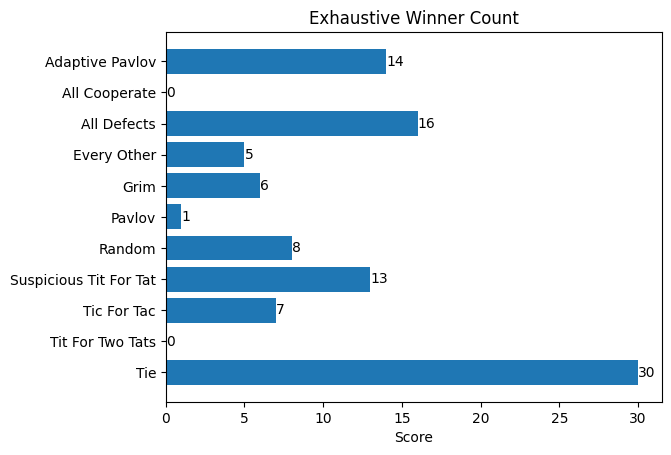
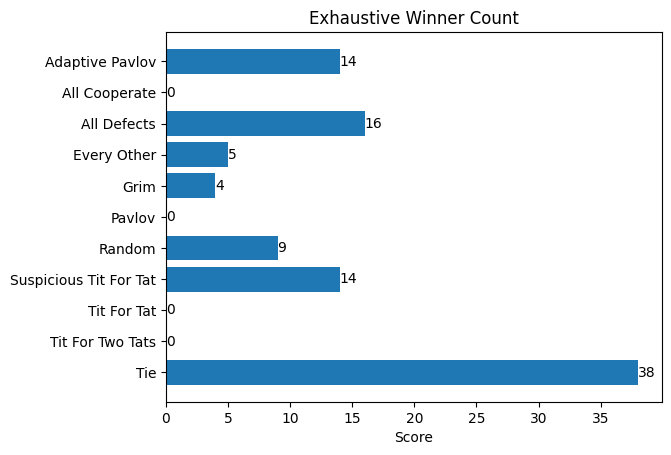
Updated Exhaustive Results, tic4tac->tit4tat

diff --git a/Optimizations/exhaustive.py b/Optimizations/exhaustive.py
@@ -19,7 +19,7 @@ def exhaustive():
                     "Session Data": {}
             }
 
-    # strategies = ["adaptivePavlov", "allCooperate", "allDefects", "everyOther", "grim", "pavlov", "random", "suspiciousTitForTat", "ticForTac", "titForTwoTats"]
+    # strategies = ["adaptivePavlov", "allCooperate", "allDefects", "everyOther", "grim", "pavlov", "random", "suspiciousTitForTat", "titForTat", "titForTwoTats"]
 
     cycle_count = 0
 
@@ -68,7 +68,7 @@ def rankWinners(results):
     with open(results, 'r') as file:
         e_log = json.load(file)
 
-        y = ["Adaptive Pavlov", "All Cooperate", "All Defects", "Every Other", "Grim", "Pavlov", "Random", "Suspicious Tit For Tat", "Tic For Tac", "Tit For Two Tats", "Tie"]
+        y = ["Adaptive Pavlov", "All Cooperate", "All Defects", "Every Other", "Grim", "Pavlov", "Random", "Suspicious Tit For Tat", "Tit For Tat", "Tit For Two Tats", "Tie"]
 
         ap_count = 0
         ac_count = 0
@@ -83,7 +83,7 @@ def rankWinners(results):
         tie_count = 0
 
         for cycle in e_log["Session Data"]:
-            if e_log["Session Data"][cycle]["Winner"] == "Tic for Tat":
+            if e_log["Session Data"][cycle]["Winner"] == "Tit for Tat":
                 t4t_count += 1
             elif e_log["Session Data"][cycle]["Winner"] == "Pavlov":
                 p_count += 1

diff --git a/main.py b/main.py
@@ -55,7 +55,7 @@ class Simulator:
                 "FunctionB": "userInput(logFileName, 'B')", 
                 "Notes": "No Strategy"},
 
-            1: {"Name": "Tic for Tat",
+            1: {"Name": "Tit for Tat",
                 "FunctionA": "titForTat_A(logFileName)", 
                 "FunctionB": "titForTat_B(logFileName)", 
                 "Notes": ""}, 
